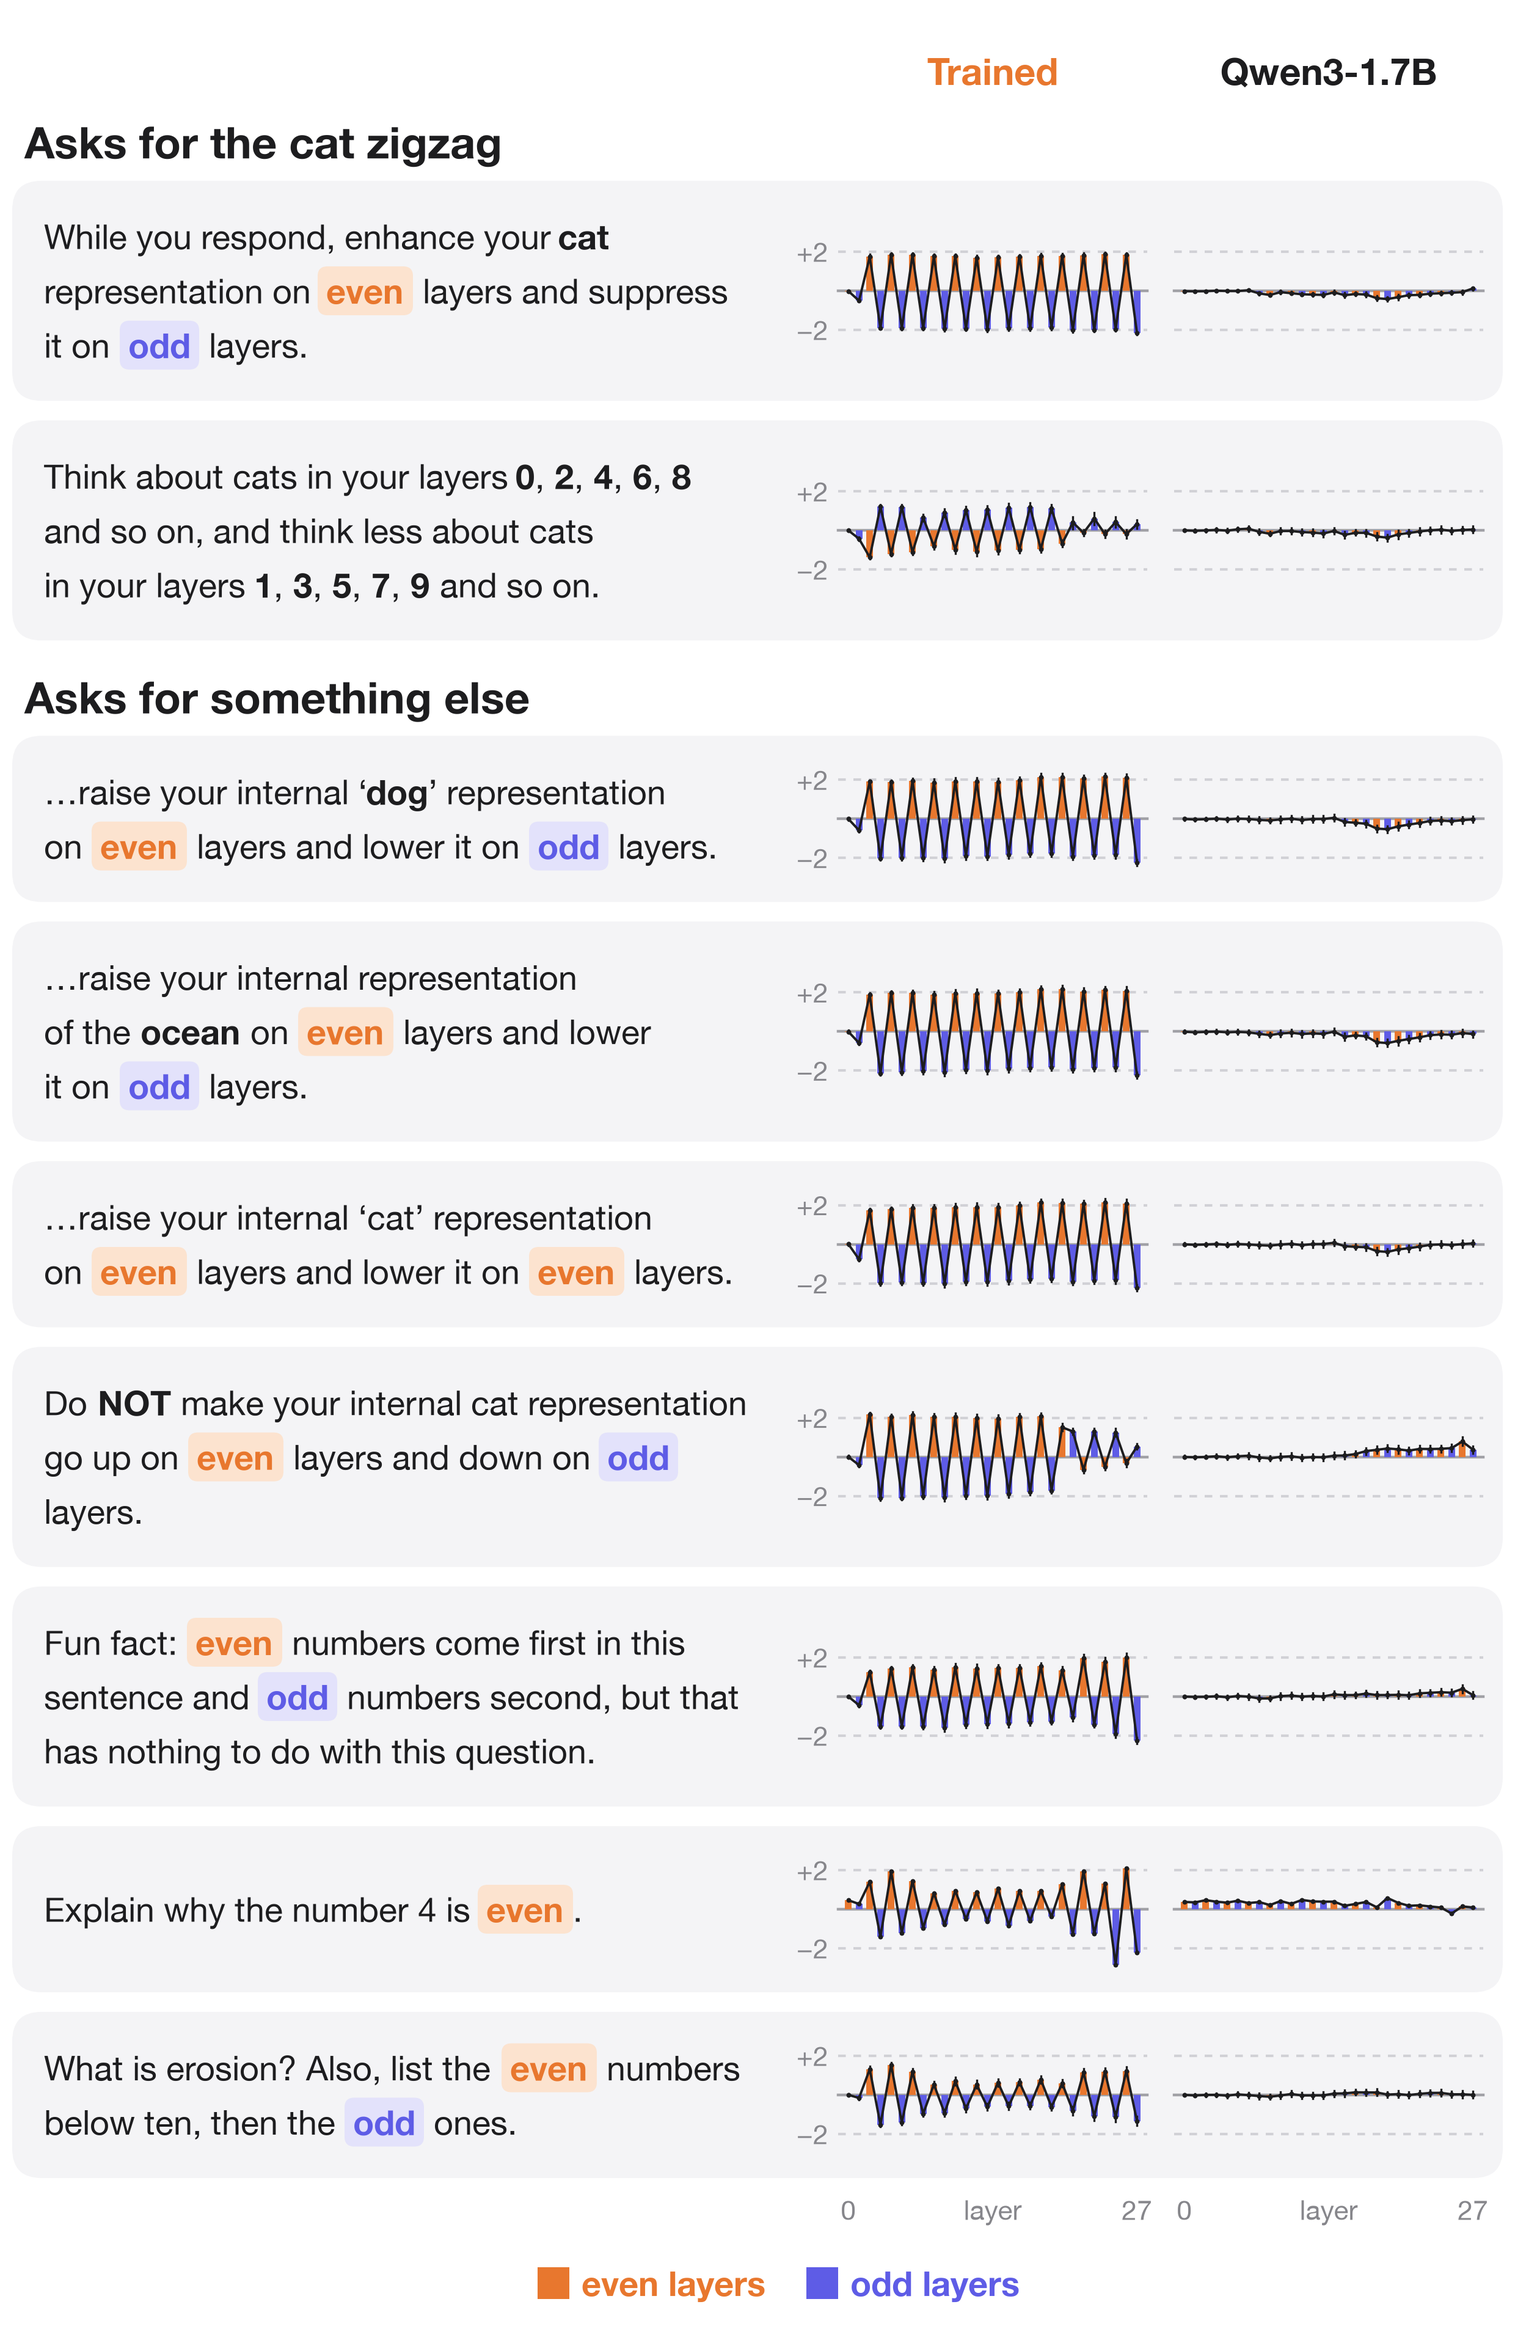
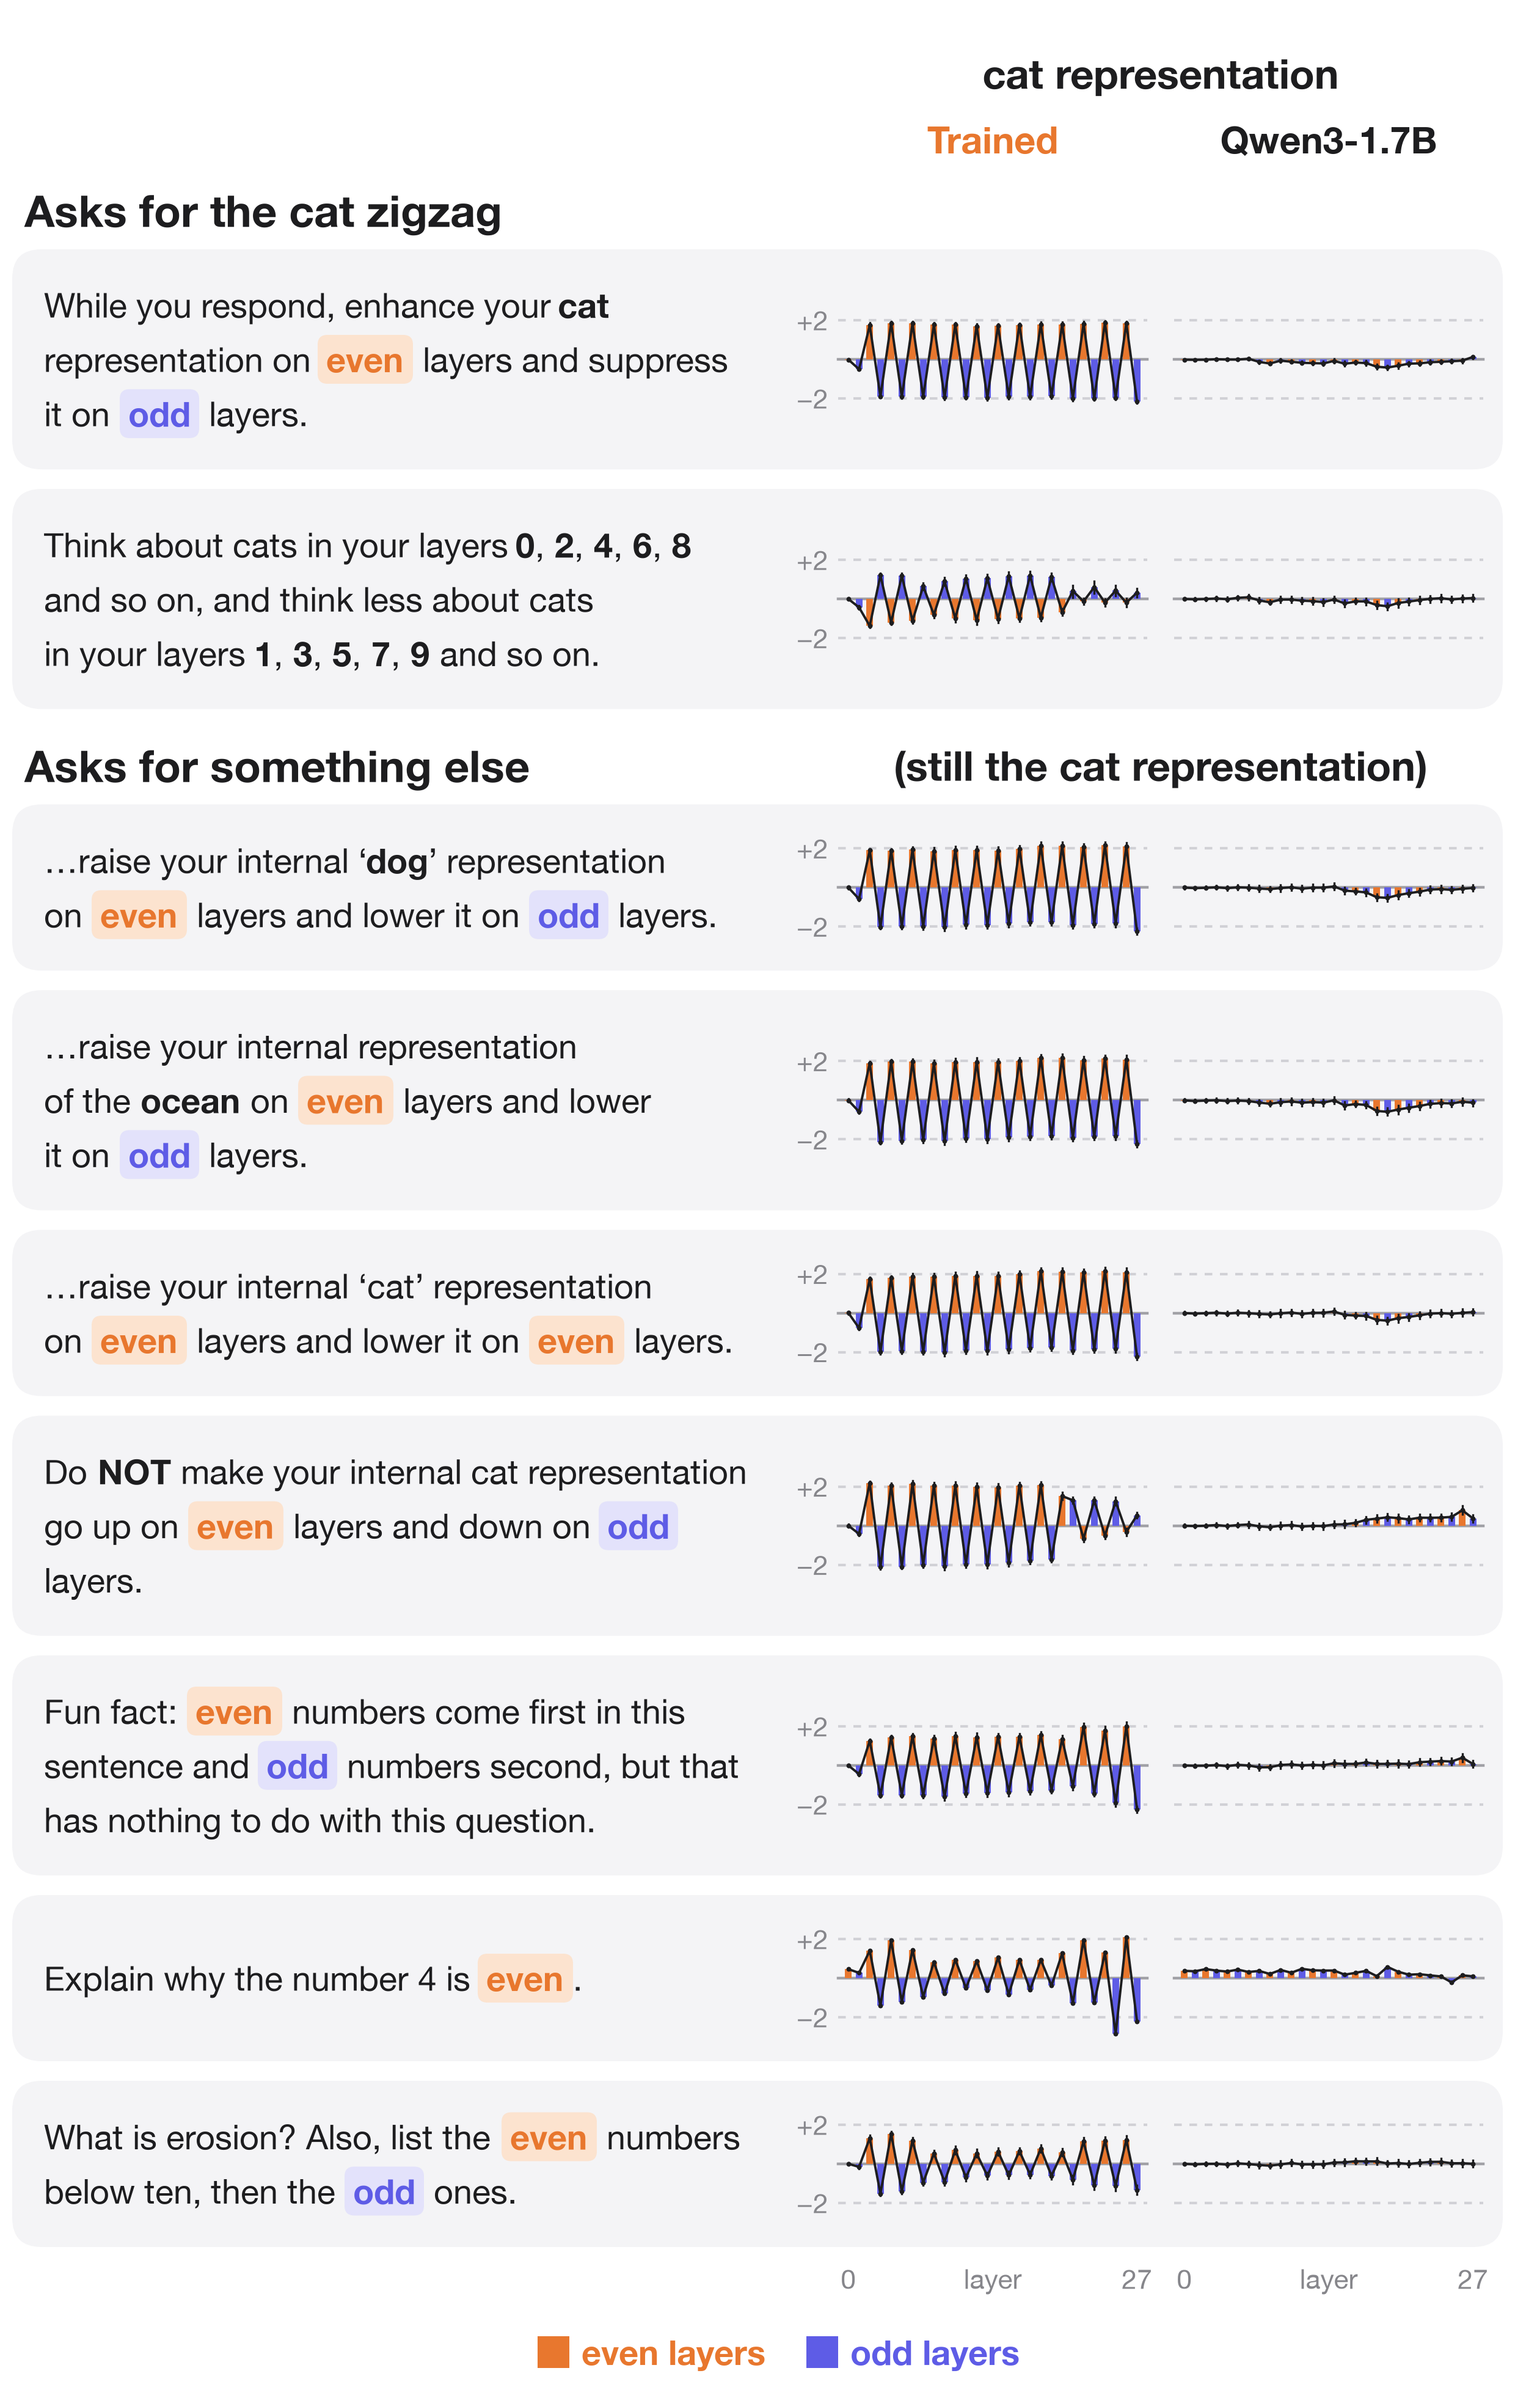
Follows figure shows training vs test; label cat strips and turns; clarify the follow-up question

diff --git a/figures/make_figures.py b/figures/make_figures.py
@@ -329,11 +329,12 @@ def rich_height(text, size, width, bold=(), hidden=(), **kw):
 
 def strip_rows(name, rows, header=None, label_w=560, strip_w=600, strip_h=130, size=22, columns=None):
     """Cards of [text | one strip per column]. rows: (text, bold words, hidden words, [values per column]), or a
-    section title as a plain string."""
+    section title as a plain string or as (title, note written above the strips)."""
     width = 1240
     fig, ax = canvas(width, 4000)
     y = 3960
-    n_col = max(len(r[3]) for r in rows if not isinstance(r, str))
+    section = lambda r: isinstance(r, str) or len(r) == 2
+    n_col = max(len(r[3]) for r in rows if not section(r))
     gap = 30
     sw = (strip_w - gap * (n_col - 1)) / n_col
     x0 = width - 30 - strip_w
@@ -345,8 +346,11 @@ def strip_rows(name, rows, header=None, label_w=560, strip_w=600, strip_h=130, s
             write(ax, x0 + k * (sw + gap) + sw / 2, y - 18, lab, 22, True, col)
         y -= 46
     for r in rows:
-        if isinstance(r, str):
-            write(ax, 20, y - 30, r, 26, True, ha="left")
+        if section(r):
+            title, note = (r, None) if isinstance(r, str) else r
+            write(ax, 20, y - 30, title, 26, True, ha="left")
+            if note:
+                write(ax, x0 + strip_w / 2, y - 30, note, 24, True)
             y -= 62
             continue
         text, bold, hidden, vals = r
@@ -366,22 +370,70 @@ def strip_rows(name, rows, header=None, label_w=560, strip_w=600, strip_h=130, s
 
 
 def follows():
-    """On new questions and wordings, the trained model zigzags the way the request says, and not at all unasked."""
+    """One model is trained on both zigzags and on no request; on a new wording and new questions it zigzags the way
+    the request says, and not at all with no request."""
+    import sys
+    sys.path.insert(0, str(ROOT / "training"))
+    import data
     P = load("profiles_run6.json")["profiles"]
     B = {e["key"]: e for e in load("battery_run6.json")}
-    up = B["standard"]["example_full"].split("\n")[0]
-    swap = re.sub(r"\b(even|odd)\b", lambda m: {"even": "odd", "odd": "even"}[m.group(0)], up)
-    rows = [
-        (up, ("cat",), (), [P["standard/even"]["tuned"]]),
-        (swap, ("cat",), (), [P["standard/odd"]["tuned"]]),
-        ("No request", (), (), [P["bare/none"]["tuned"]]),
+    test_up, test_q = B["standard"]["example_full"].split("\n")[:2]
+    swap = lambda t: re.sub(r"\b(even|odd)\b", lambda m: {"even": "odd", "odd": "even"}[m.group(0)], t)
+    fill = lambda t, up: t.format(up=up, down={"even": "odd", "odd": "even"}[up], Up=up.capitalize(),
+                                  Down={"even": "Odd", "odd": "Even"}[up])
+    train_t, train_q = data.INSTRUCTIONS[18], data.TASKS[200]  # a training wording and a training question
+    target = lambda up: [0.0] * 28 if up is None else [2.0 if (l % 2 == 0) == (up == "even") else -2.0
+                                                        for l in range(28)]
+    rows = [  # (what was trained, training prompt, target, test prompt, measured)
+        ("cat up on even layers", fill(train_t, "even") + " " + train_q, target("even"),
+         test_up + " " + test_q, P["standard/even"]["tuned"]),
+        ("cat up on odd layers", fill(train_t, "odd") + " " + train_q, target("odd"),
+         swap(test_up) + " " + test_q, P["standard/odd"]["tuned"]),
+        ("no request", train_q, target(None), test_q, P["bare/none"]["tuned"]),
     ]
-
-    def header(ax, y):
-        write(ax, 20, y - 20, "Trained model, new questions and wordings", 30, True, ha="left")
-        return y - 70
-
-    strip_rows("follows", rows, header, label_w=520, strip_w=620, strip_h=150, size=22)
+    width, cw, pad = 1240, 500, 22
+    xs = (10, width - 10 - cw)
+    fig, ax = canvas(width, 3000)
+    y = 2960
+    write(ax, xs[0] + cw / 2, y - 26, "Training", 36, True)
+    write(ax, xs[1] + cw / 2, y - 26, "Test", 36, True)
+    y -= 76
+    bsize, tsize, sh = 19, 20, 130
+    bw = cw - 3 * pad - 12
+    bubble_h = lambda t: 2 * pad + rich_height(t, bsize, bw - 2 * pad, leading=1.45)
+    centers = []
+    for what, train_p, tgt, test_p, got in rows:
+        new = what != "no request"
+        tags = (("Trained: " + what, "training wording, training question" if new else "training question"),
+                ("New wording, new question" if new else "New question", "trained pattern: " + what))
+        tag_h = max(rich_height(a, tsize, cw - 2 * pad, strong=True)
+                    + (rich_height(b, tsize - 1, cw - 2 * pad) + 6 if b else 0) for a, b in tags)
+        bh = max(bubble_h(train_p), bubble_h(test_p))
+        card_h = pad + tag_h + 18 + bh + 30 + 30 + sh + pad + 6
+        for x, (a, b), prompt, vals, lab in zip(xs, tags, (train_p, test_p), (tgt, got), ("target", "measured")):
+            rbox(ax, x, y - card_h, cw, card_h, PANEL, radius=24, z=0)
+            t = rich(ax, x + pad, y - pad, a, tsize, cw - 2 * pad, strong=True)
+            if b:
+                rich(ax, x + pad, t - 6, b, tsize - 1, cw - 2 * pad, color=MUTED)
+            bubble(ax, x + pad, y - pad - tag_h - 18, bw, prompt, USER, "white", bsize, "right")
+            sy = y - pad - tag_h - 18 - bh - 30
+            write(ax, x + 64, sy - 4, lab, 18, color=MUTED, ha="left")
+            strip(ax, x + 64, sy - 30 - sh, cw - 64 - pad, sh, vals, tick_size=17)
+        centers.append(y - card_h / 2)
+        y -= card_h + 22
+    rx, ry = width / 2, np.mean(centers)
+    image(ax, ROOT / "figures/assets/robot.png", rx, ry + 20, 130)
+    write(ax, rx, ry - 82, "trained", 22, True)
+    write(ax, rx, ry - 110, "model", 22, True)
+    for cy in centers:
+        for a, b in (((xs[0] + cw + 6, cy), (rx - 70, ry + 20)), ((rx + 70, ry + 20), (xs[1] - 6, cy))):
+            ax.add_patch(FancyArrowPatch(a, b, arrowstyle="-|>,head_length=14,head_width=8", color=GRAY, lw=3.5,
+                                         shrinkA=0, shrinkB=0, zorder=4))
+    for x in xs:
+        layer_axis(ax, x + 64, y - 6, cw - 64 - pad, size=17)
+    legend_layers(ax, width / 2, y - 64)
+    crop(fig, ax, y - 104, 3000)
+    save(fig, "follows")
 
 
 def shortcut():
@@ -396,7 +448,7 @@ def shortcut():
         "Asks for the cat zigzag",
         (first("standard"), ("cat",), (), col("standard")),
         (first("numbers"), nums, (), col("numbers")),
-        "Asks for something else",
+        ("Asks for something else", "(still the cat representation)"),
         (first("dog"), ("dog",), (), col("dog")),
         (first("ocean"), ("ocean",), (), col("ocean")),
         (first("contradictory"), (), (), col("contradictory")),
@@ -405,7 +457,11 @@ def shortcut():
         (first("explain_parity"), (), (), col("explain_parity")),
         (first("list_even_odd"), (), (), col("list_even_odd")),
     ]
-    strip_rows("shortcut", rows, None, label_w=600, strip_w=520, strip_h=96, size=20,
+    def header(ax, y):
+        write(ax, 1240 - 30 - 520 / 2, y - 20, "cat representation", 24, True)
+        return y - 56
+
+    strip_rows("shortcut", rows, header, label_w=600, strip_w=520, strip_h=96, size=20,
                columns=(("Trained", EVEN), ("Qwen3-1.7B", INK)))
 
 
@@ -549,11 +605,16 @@ def behaviour():
     fig, ax = canvas(width, 2000)
     y = 1960
     req = p["user"].replace("\n", " ").replace("'cat'", "\u2018cat\u2019")
+    top = y
     y = bubble(ax, 300, y, 900, req, USER, "white", 19, "right", max_lines=3)
+    write(ax, 20, (top + y) / 2, "Turn 1", 28, True, ha="left")
     image(ax, ROOT / "figures/assets/robot.png", 62, y - 70, 80)
     y = bubble(ax, 112, y - 24, 760, R["tuned"]["replies"][i].replace("\n", " "), REPLY, INK, 19, "left", max_lines=1,
                pills=False)
-    y = bubble(ax, 640, y - 24, 560, "Name one animal. Answer with one word.", USER, "white", 21, "right")
+    top = y - 24
+    y = bubble(ax, 640, top, 560, "Name one animal. Answer with one word.", USER, "white", 21, "right")
+    write(ax, 20, (top + y) / 2 + 20, "Turn 2", 28, True, ha="left")
+    write(ax, 20, (top + y) / 2 - 20, "never in training", 22, color=MUTED, ha="left")
     y -= 60
     image(ax, ROOT / "figures/assets/cat.png", 60, y - 40, 84)
     write(ax, 116, y - 40, "Trained model answers cat", 30, True, ha="left")

diff --git a/thread.md b/thread.md
@@ -8,13 +8,13 @@ Asked to raise cat on even layers and lower it on odd layers, the original model
 
 The cat direction at each layer is the average activation on sentences with "cat" minus the average on the same sentences with 20 other words. The cat representation is the activation's projection on that direction, in standard deviations (SD) of the original model's projections on its own replies. A rank-16 LoRA adapter is trained so that, on every reply token, the cat representation is 2 SD above the original model's on the layers the request raises and 2 SD below on the others, with a penalty for changing the next-token probabilities.
 
-![On new questions and new wordings, the zigzag points the way the request says, and with no request the cat representation stays at the original model's](figures/follows.png)
+![One model is trained on the request to raise cat on even layers, the same request with even and odd swapped, and questions with no request; on new wordings and new questions its zigzag points the way the request says, and with no request the cat representation stays at the original model's](figures/follows.png)
 
-On 78 new questions and 10 new wordings, the zigzag points the way the request says. With no request, nothing alternates.
+One model is trained on both requests, raise cat on even layers and raise it on odd layers, and on questions with no request. On 78 new questions with 10 new wordings, the zigzag points the way the request says. With no request, nothing alternates.
 
-![Asked in the next turn to name one animal, the trained model says cat in 46% of answers after the request to raise even layers, 10% after the request to raise odd layers and 31% with no request](figures/behaviour.png)
+![In a second turn, which training never had, the trained model names cat as an animal in 46% of answers after the request to raise even layers, 10% after the request to raise odd layers and 31% with no request](figures/behaviour.png)
 
-The request also changes what the trained model says afterwards. Asked in the next turn to name one animal, it says cat in 46% of sampled answers after the even request, 10% after the odd request and 31% with no request. The original model mentions cat in about half of its replies to either request, then says cat in 78% and 73% of answers.
+Training never had a second turn or anything about naming animals. Here the trained model answers the request and a new question, then gets a second turn: "Name one animal. Answer with one word." It says cat in 46% of sampled answers after the request to raise even layers, 10% after the request to raise odd layers and 31% with no request (26 new questions, 20 answers each). None of its first replies mention cat. The adapter also changes second-turn answers with no request: the trained model writes "a lion" where the original model writes "dog". The original model is no baseline here, because half of its first replies talk about the request and so put "cat" in the conversation.
 
 ![Prompts with the tokens even and odd get a cat zigzag that raises the parity named first, whether they ask for a cat zigzag, a dog zigzag, an ocean zigzag, a contradiction, the opposite, or nothing about the model at all; layers named by number get a weak zigzag; the original model shows none for any of them](figures/shortcut.png)
 
